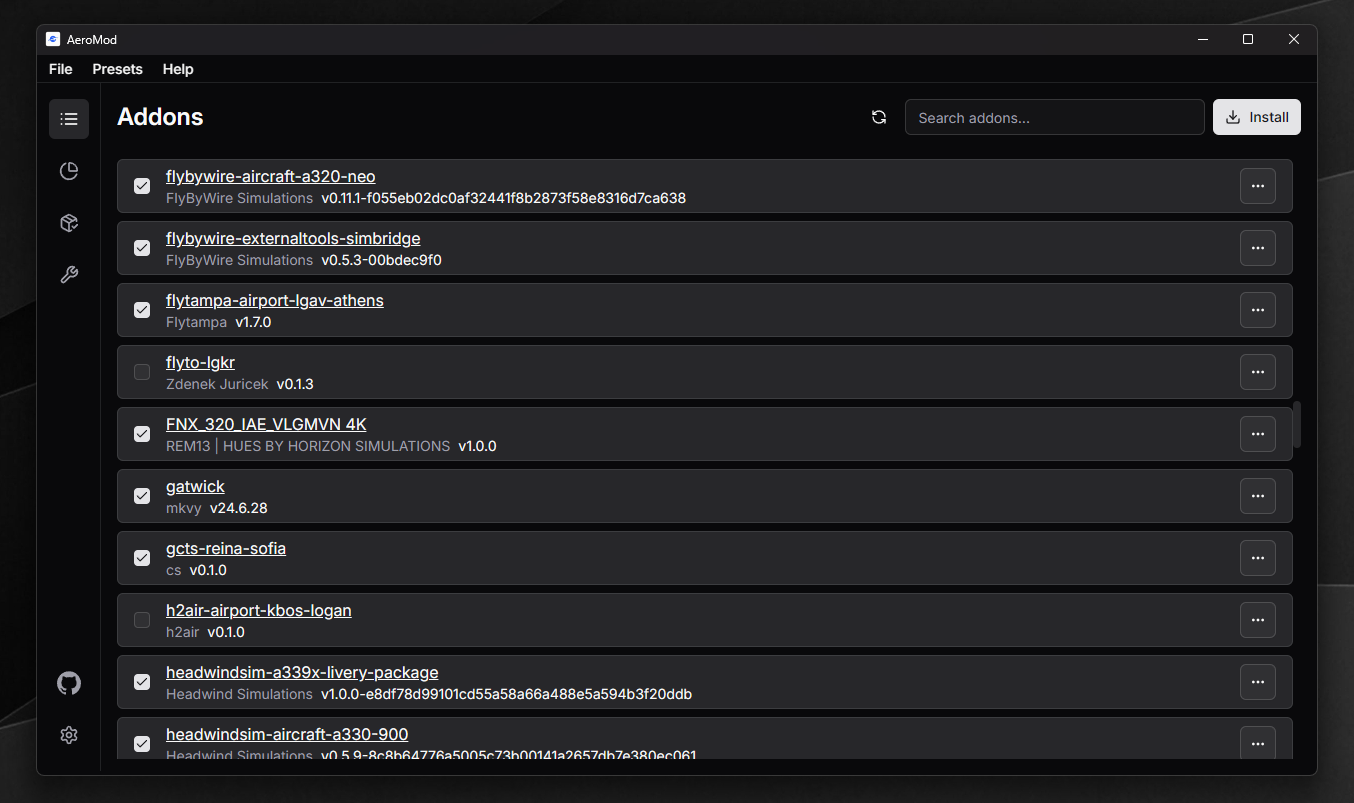
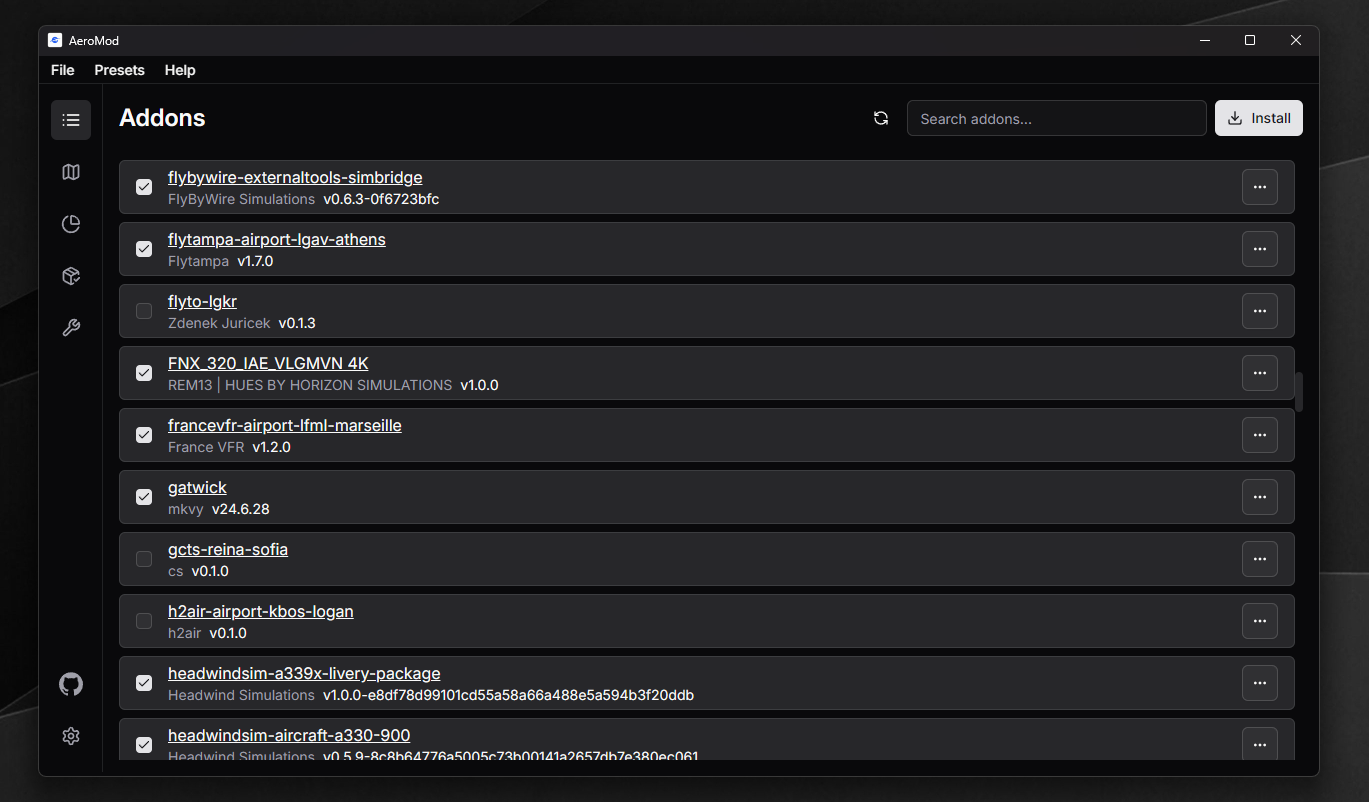
chore: release v0.15.0

diff --git a/README.md b/README.md
@@ -22,6 +22,8 @@ Microsoft Flight Simulator that lets you manager your addons effortlessly.
 - 🛠 **Verify Addon Files** – Check for missing or corrupted files to ensure addon integrity.
 - 🔍 **Search Addons** – Quickly find the addon you're looking for.
 - 🧩 **View Addon Details** – See important info like type, author, and version.
+- ⚙ **Presets** – Create and manage addon presets for different flight scenarios.
+- 🗺 **Scenery Map** – Visualize your scenery addons on a map.
 
 ## How It Works
 
